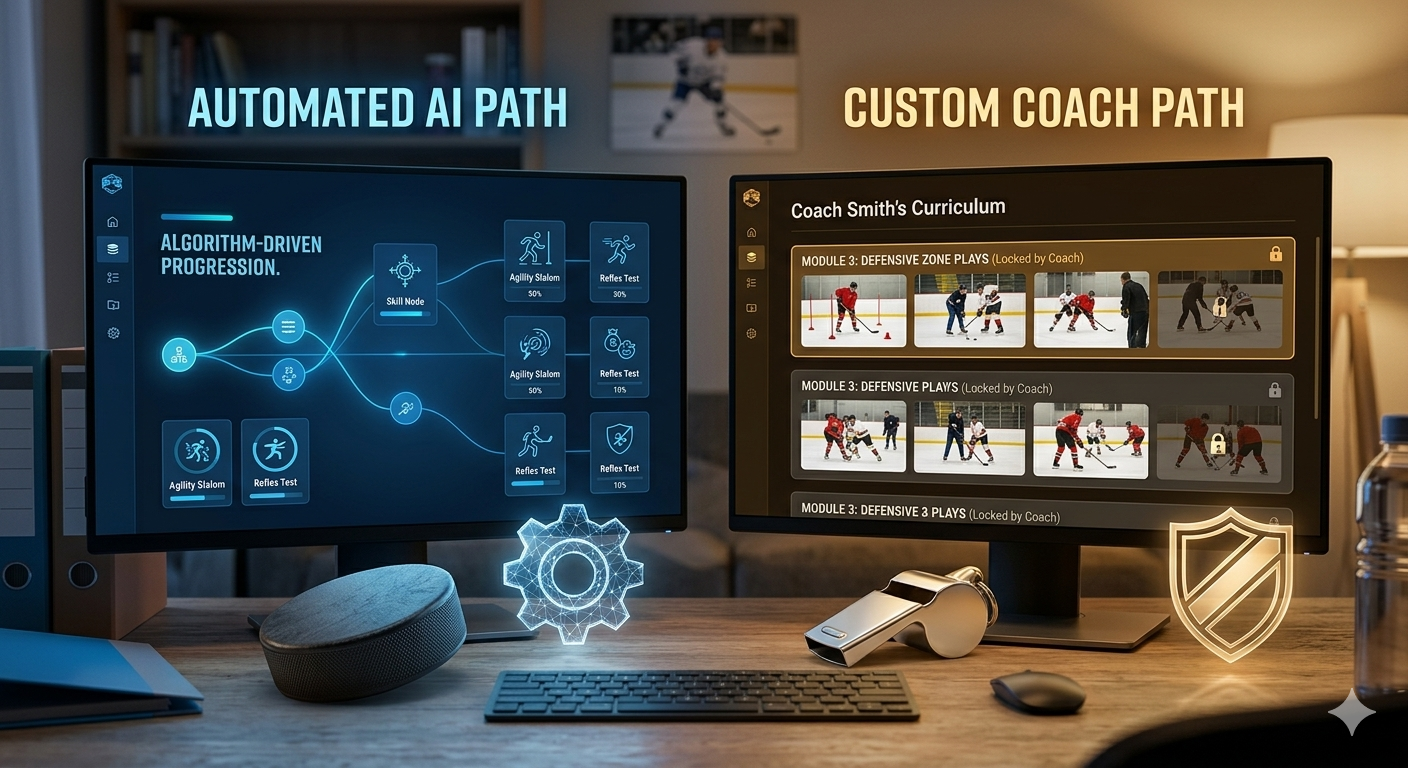
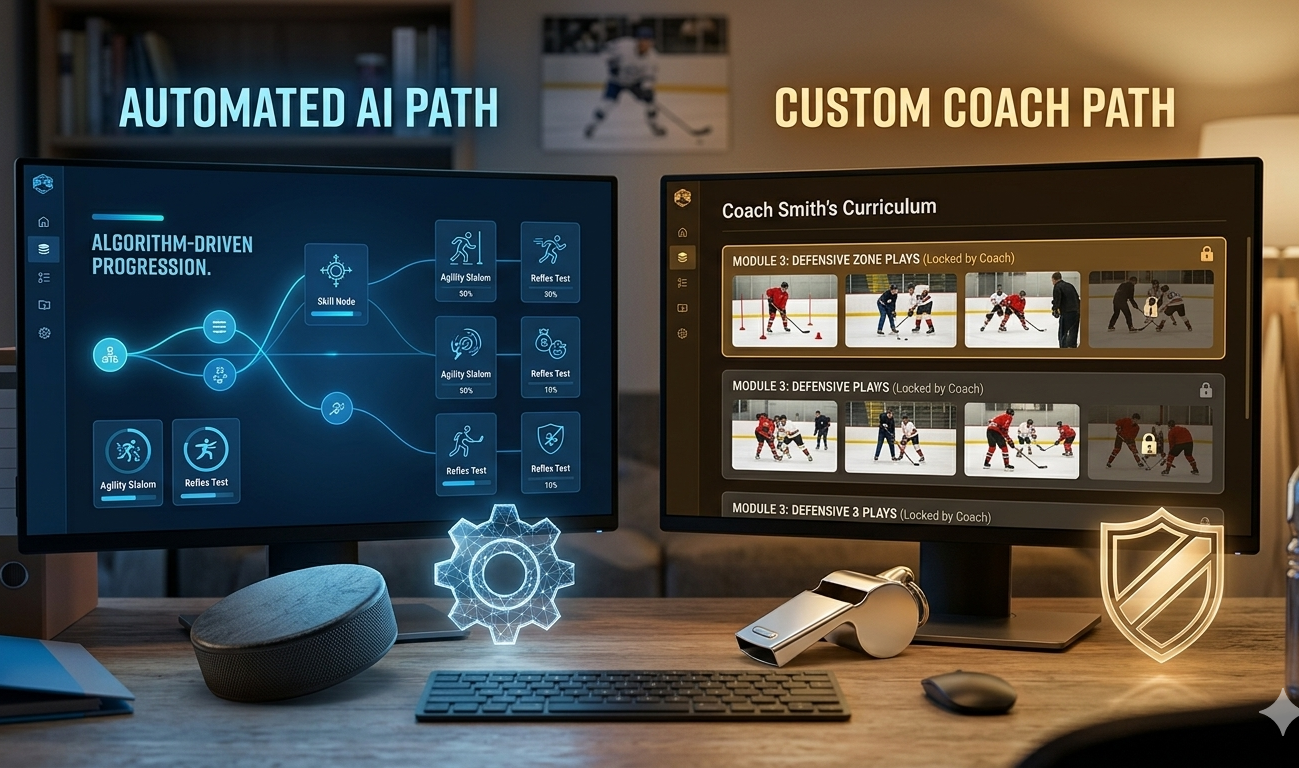
parent feature images in landing page

diff --git a/app/page.tsx b/app/page.tsx
@@ -412,7 +412,7 @@ export default function Home() {
                 {
                   title: 'Session Charting',
                   desc: 'The most complete in-game tracking tool for goalies. Log every shot, save, and goal against — period by period. Rate yourself across 8 performance factors like Intensity, Positional Play, and Reading the Breakout. Low ratings trigger a personalised growth menu that connects you to the exact lessons you need.',
-                  image: '/goalie_feature_1.avif',
+                  image: '/goalie_feature_1.png',
                   badge: 'Flagship Feature',
                 },
                 {

diff --git a/app/globals.css b/app/globals.css
@@ -156,3 +156,16 @@
     @apply bg-background text-foreground;
   }
 }
+
+@keyframes marquee {
+  0% {
+    transform: translateX(0);
+  }
+  100% {
+    transform: translateX(calc(-50% - var(--gap) / 2));
+  }
+}
+
+.animate-marquee {
+  animation: marquee var(--duration) linear infinite;
+}
